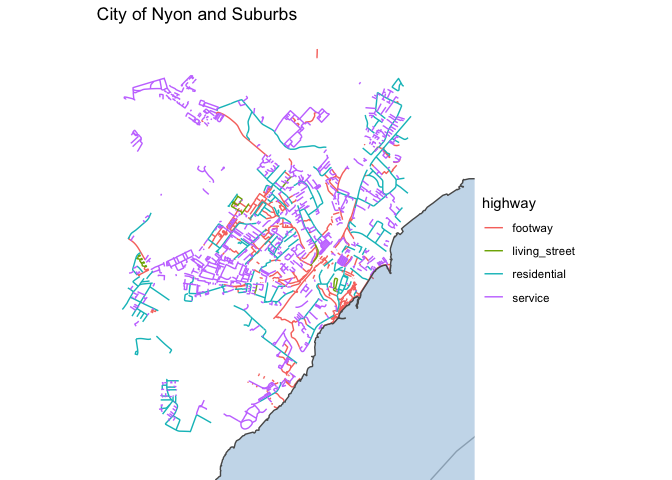
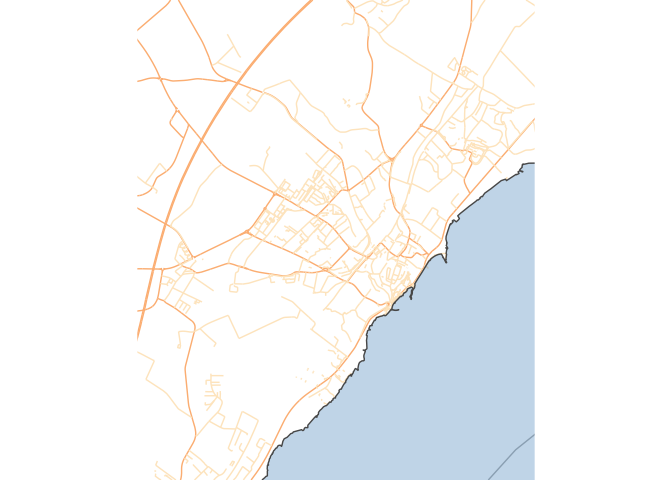
Updated

diff --git a/Mobility and Transportation/Cartography_city/maps.md b/Mobility and Transportation/Cartography_city/maps.md
@@ -1,0 +1,49 @@
+cartography
+================
+Selim Ach
+11/20/2020
+
+The objective is to plot on a map some features of the city of Geneva
+including bike paths and also main train station. This visualization can
+be complemented by other information if available, such as road traffic
+during the
+    day.
+
+### City of Geneva
+
+    ## Reading layer `CAD_BATIMENT_HORSOL_TOIT_SP' from data source `/Users/selim/Documents/datascience/visualization/Mobility and Transportation/Cartography_city/Data/SHP_CAD_BATIMENT_HORSOL_TOIT_SP/CAD_BATIMENT_HORSOL_TOIT_SP.shp' using driver `ESRI Shapefile'
+    ## Simple feature collection with 124339 features and 6 fields
+    ## geometry type:  MULTIPOLYGON
+    ## dimension:      XY
+    ## bbox:           xmin: 2486336 ymin: 1110441 xmax: 2512590 ymax: 1135439
+    ## CRS:            2056
+
+    ## Reading layer `AGGLO_GARES' from data source `/Users/selim/Documents/datascience/visualization/Mobility and Transportation/Cartography_city/Data/SHP_AGGLO_GARES/AGGLO_GARES.shp' using driver `ESRI Shapefile'
+    ## Simple feature collection with 82 features and 12 fields
+    ## geometry type:  POINT
+    ## dimension:      XY
+    ## bbox:           xmin: 2475352 ymin: 1084145 xmax: 2542757 ymax: 1154321
+    ## CRS:            2056
+
+    ## Reading layer `OTC_AMENAG_2ROUES' from data source `/Users/selim/Documents/datascience/visualization/Mobility and Transportation/Cartography_city/Data/SHP_OTC_AMENAG_2ROUES/OTC_AMENAG_2ROUES.shp' using driver `ESRI Shapefile'
+    ## Simple feature collection with 5542 features and 10 fields
+    ## geometry type:  MULTILINESTRING
+    ## dimension:      XY
+    ## bbox:           xmin: 2486071 ymin: 1110417 xmax: 2511898 ymax: 1135573
+    ## CRS:            2056
+
+![](maps_files/figure-gfm/unnamed-chunk-2-1.png)<!-- -->
+
+-----
+
+### City of Nyon
+
+The following example is the creation of a map of the city of Nyon,
+focusing on main roads and pedestrian streets.
+
+![](maps_files/figure-gfm/unnamed-chunk-3-1.png)<!-- -->
+
+Adding an extra layer with the map background, focusing this time on
+residential areas only (using the ggmap functionality)
+
+![](maps_files/figure-gfm/unnamed-chunk-4-1.png)<!-- -->
